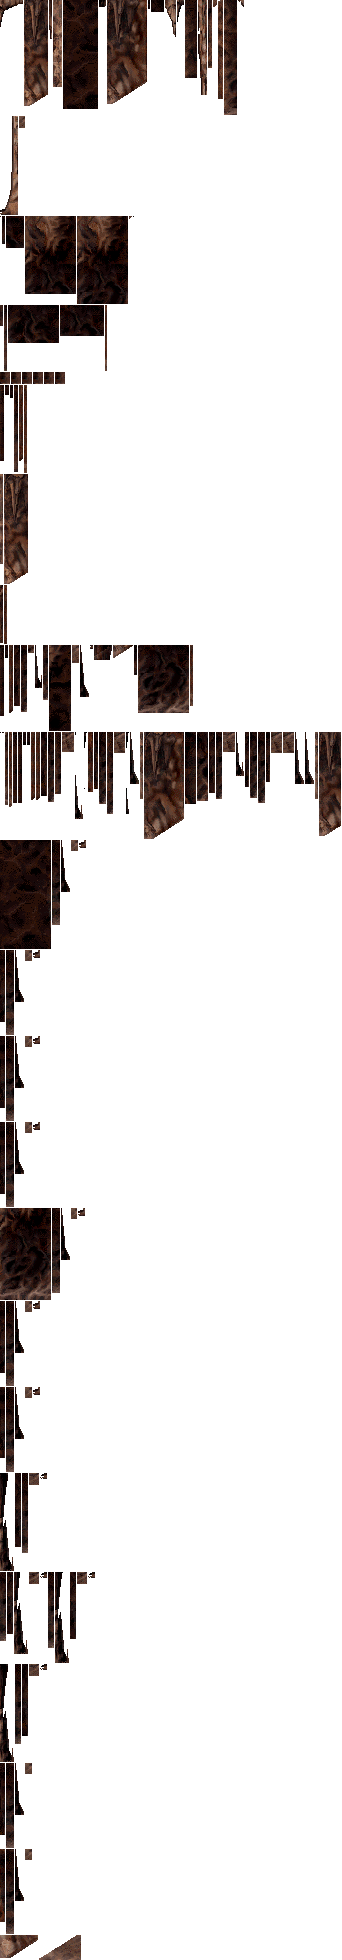
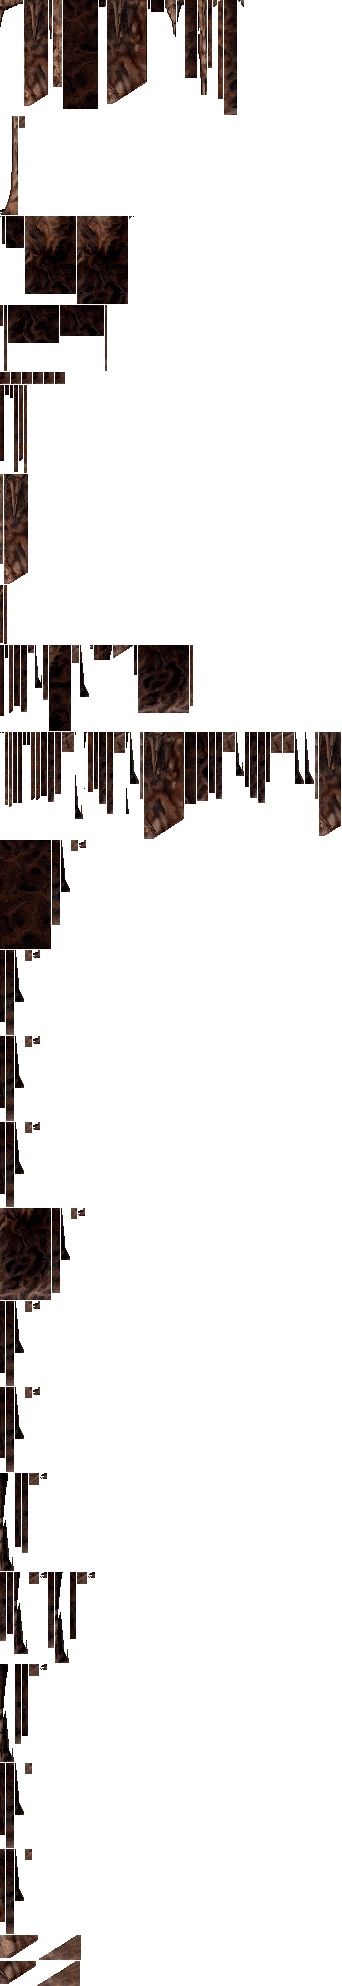
Blend approved floor joins in level 3 room 12

diff --git a/tests/test_cavern_retouch.py b/tests/test_cavern_retouch.py
@@ -25,8 +25,9 @@ class BundledCavernRetouchTests(unittest.TestCase):
         source = Image.new('RGBA', record['size'], 'magenta')
         command = ['back', shape, x, bottom, mode, 0, [], 4]
         self.assertIs(retouched_sprite(room, command, source, level_number=4), source)
+        self.assertIs(retouched_sprite(room, command, source, level_number=3), source)
         with patch('pop2.cavern_retouch.retouch_assets', side_effect=AssertionError('Wrong level')):
-            for level in (3, 5, 6, 7, 8, 9):
+            for level in (5, 6, 7, 8, 9):
                 self.assertIs(retouched_sprite(room, command, source, level_number=level), source)
 
     def test_new_wall_patches_reject_wrong_level_room_or_source(self):
@@ -49,8 +50,8 @@ class BundledCavernRetouchTests(unittest.TestCase):
 
     def test_bundled_variants_have_valid_scope_and_crop_sizes(self):
         assets = retouch_assets()
-        self.assertEqual(len(assets), 71)
-        self.assertEqual({key[0] for key in assets}, {0, 1, 4, 6, 7, 10, 12, 23, 27, 29})
+        self.assertEqual(len(assets), 73)
+        self.assertEqual({key[0] for key in assets}, {0, 1, 4, 6, 7, 10, 11, 12, 23, 27, 29})
         for key, (record, image) in assets.items():
             with self.subTest(key=key):
                 x1, y1, x2, y2 = record['source_rect']
@@ -63,7 +64,7 @@ class BundledCavernRetouchTests(unittest.TestCase):
     def test_unaffected_rooms_do_not_even_load_retouch_assets(self):
         source = Image.new('RGBA', (5, 5), 'red')
         with patch('pop2.cavern_retouch.retouch_assets', side_effect=AssertionError('Unexpected load')):
-            for room in set(range(32)) - {0, 1, 4, 6, 7, 10, 12, 23, 27, 29}:
+            for room in set(range(32)) - {0, 1, 4, 6, 7, 10, 11, 12, 23, 27, 29}:
                 self.assertIs(retouched_sprite(room, [], source), source)
 
     def test_unmatched_sources_and_other_shape_libraries_are_untouched(self):
@@ -299,7 +300,7 @@ class CavernRetouchTests(unittest.TestCase):
         self.assertEqual(closed.crop((185, 135, 281, 220)).tobytes(), native.crop((185, 135, 281, 220)).tobytes())
 
     def test_unapproved_rooms_remain_pixel_identical(self):
-        for room in set(range(32)) - {0, 1, 4, 6, 7, 10, 12, 23, 27, 29}:
+        for room in set(range(32)) - {0, 1, 4, 6, 7, 10, 11, 12, 23, 27, 29}:
             with self.subTest(room=room):
                 native, edited = cavern_room(room), cavern_room(room, retouched=True)
                 self.assertEqual(native.background.tobytes(), edited.background.tobytes())
@@ -435,17 +436,17 @@ class CavernRetouchTests(unittest.TestCase):
         game = LevelRenderer(level, preload_room=False)
         reference = LevelRenderer(level, preload_room=False, retouch_caverns=False)
         for room in range(32):
-            expected = cavern_room(room, animated=True, retouched=room in (0, 1, 4, 6, 7, 10, 12, 23, 27, 29))
+            expected = cavern_room(room, animated=True, retouched=room in (0, 1, 4, 6, 7, 10, 11, 12, 23, 27, 29))
             self.assertEqual(game.room(room).flattened().tobytes(), expected.flattened().tobytes())
             self.assertEqual(reference.room(room).flattened().tobytes(), cavern_room(room, animated=True).flattened().tobytes())
 
     def test_retained_pixels_do_not_propagate_retouch_into_adjacent_rooms(self):
         level = LevelDefinition.read(load_resource_file('Prince.rsrc'), 3)
         terrain = LevelMap(level.data)
-        for source in (0, 1, 4, 6, 7, 10, 12, 23, 27, 29):
+        for source in (0, 1, 4, 6, 7, 10, 11, 12, 23, 27, 29):
             for direction in ('left', 'right', 'up', 'down'):
                 destination = terrain.neighbor(source, direction)
-                if destination is None or destination in (0, 1, 4, 6, 7, 10, 12, 23, 27, 29):
+                if destination is None or destination in (0, 1, 4, 6, 7, 10, 11, 12, 23, 27, 29):
                     continue
                 with self.subTest(source=source, destination=destination):
                     game = LevelRenderer(level, preload_room=False)

diff --git a/tests/test_floor_join_artwork.py b/tests/test_floor_join_artwork.py
@@ -11,9 +11,50 @@ from pop2.render_opening import load_resource_file
 from tests import test_cavern_retouch as retouch_tests
 
 
+# Native level/room, approved cached RGB, preserved foreground RGBA, source placements.
+APPROVED_FLOOR_JOINS = {
[2 lines of base64/hex data omitted]
+               ((3550, 51, 245, 16), (3525, 53, 245, 16))),
+}
+
+
 @unittest.skipUnless((ASSET_DIR / 'caverns_entry.json').is_file(),
                      'Imported game resources required')
 class FloorJoinArtworkTests(unittest.TestCase):
+    def test_additional_approved_frames_and_foreground_match(self):
+        prince = load_resource_file('Prince.rsrc')
+        for (level, room), (expected, foreground, _sources) in APPROVED_FLOOR_JOINS.items():
+            with self.subTest(level=level, room=room):
+                definition = LevelDefinition.read(prince, level)
+                edited = LevelRenderer(definition, preload_room=False).room(room-1)
+                native = cavern_room(room-1, level_number=level, animated=True)
+                self.assertEqual(hashlib.sha256(edited.flattened().convert('RGB').tobytes()).hexdigest(),
+                                 expected)
+                self.assertEqual(hashlib.sha256(edited.foreground.tobytes()).hexdigest(), foreground)
+                retouch_tests.CavernRetouchTests().assert_masks_equal(native, edited)
+                original = LevelRenderer(definition, preload_room=False, retouch_caverns=False)
+                self.assertEqual(original.room(room-1).flattened().tobytes(), native.flattened().tobytes())
+
+    def test_additional_floor_source_guards_preserve_alpha(self):
+        for (level, room), (_expected, _foreground, sources) in APPROVED_FLOOR_JOINS.items():
+            program, resources, palette, shapes = cavern_assets(level)
+            for shape, x, bottom, mode in sources:
+                with self.subTest(level=level, room=room, shape=shape, x=x, bottom=bottom):
+                    command = next(c for c in program['rooms'][str(room-1)]
+                                   if c[:5] == ['back', shape, x, bottom, mode])
+                    source = cavern_command_sprite(command, resources, palette, shapes)
+                    result = retouched_sprite(room-1, command, source, level_number=level)
+                    self.assertNotEqual(source.tobytes(), result.tobytes())
+                    self.assertEqual(source.getchannel('A').tobytes(), result.getchannel('A').tobytes())
+                    altered = source.copy()
+                    altered.putpixel((0, 0), (1, 2, 3, 255))
+                    self.assertIs(retouched_sprite(room-1, command, altered, level_number=level), altered)
+                    for field, value in ((2, x+1), (3, bottom+1), (7, 1)):
+                        shifted = command.copy()
+                        shifted[field] = value
+                        self.assertIs(retouched_sprite(room-1, shifted, source, level_number=level), source)
+
     def test_room11_approved_floor_preserves_wall_foreground_and_native_opt_out(self):
         definition = LevelDefinition.read(load_resource_file('Prince.rsrc'), 3)
         edited = LevelRenderer(definition, preload_room=False).room(10)

diff --git a/pop2/cavern_retouch.py b/pop2/cavern_retouch.py
@@ -86,7 +86,7 @@ def retouched_door_sprite(level, room, command, source):
 
 
 def retouched_sprite(room, command, source, *, level_number=3):
-    approved = (room in (0, 1, 4, 6, 7, 10, 12, 23, 27, 29) if level_number == 3
+    approved = (room in (0, 1, 4, 6, 7, 10, 11, 12, 23, 27, 29) if level_number == 3
                 else room in (4, 5, 11, 13, 21, 22, 25, 27) if level_number == 4
                 else level_number == 5 and room in (1, 5, 6, 13, 14, 15, 16, 21, 22, 24))
     if not approved or len(command) < 8 or command[7] != 4:

diff --git a/docs/CAVERN_ARTWORK.md b/docs/CAVERN_ARTWORK.md
@@ -280,3 +280,15 @@ unchanged. This is a baked artwork improvement, without per-frame filtering.
 The approved comparison remains local under
 `rendered/floor-join-marked-reference-v3/`. Approval covers this room only;
 the remaining selected floor joins still require their own visual previews.
+
+## Remaining selected floor joins: approved V3
+
+The user approved these V3 floor joins on 2026-11-07, excluding level5
+room9/J21 because its button artwork needs a separate correction. They use
+the narrow two-sided transition approved for level3 room11. Earlier edits,
+foreground pixels, source alpha and physical masks remain unchanged.
+Comparisons stay local under `rendered/floor-join-selected-v3/`.
+
+| Level | Room | Added pixels | Cached RGB SHA256 |
+| --- | --- | --- | --- |
[1 lines of base64/hex data omitted]
